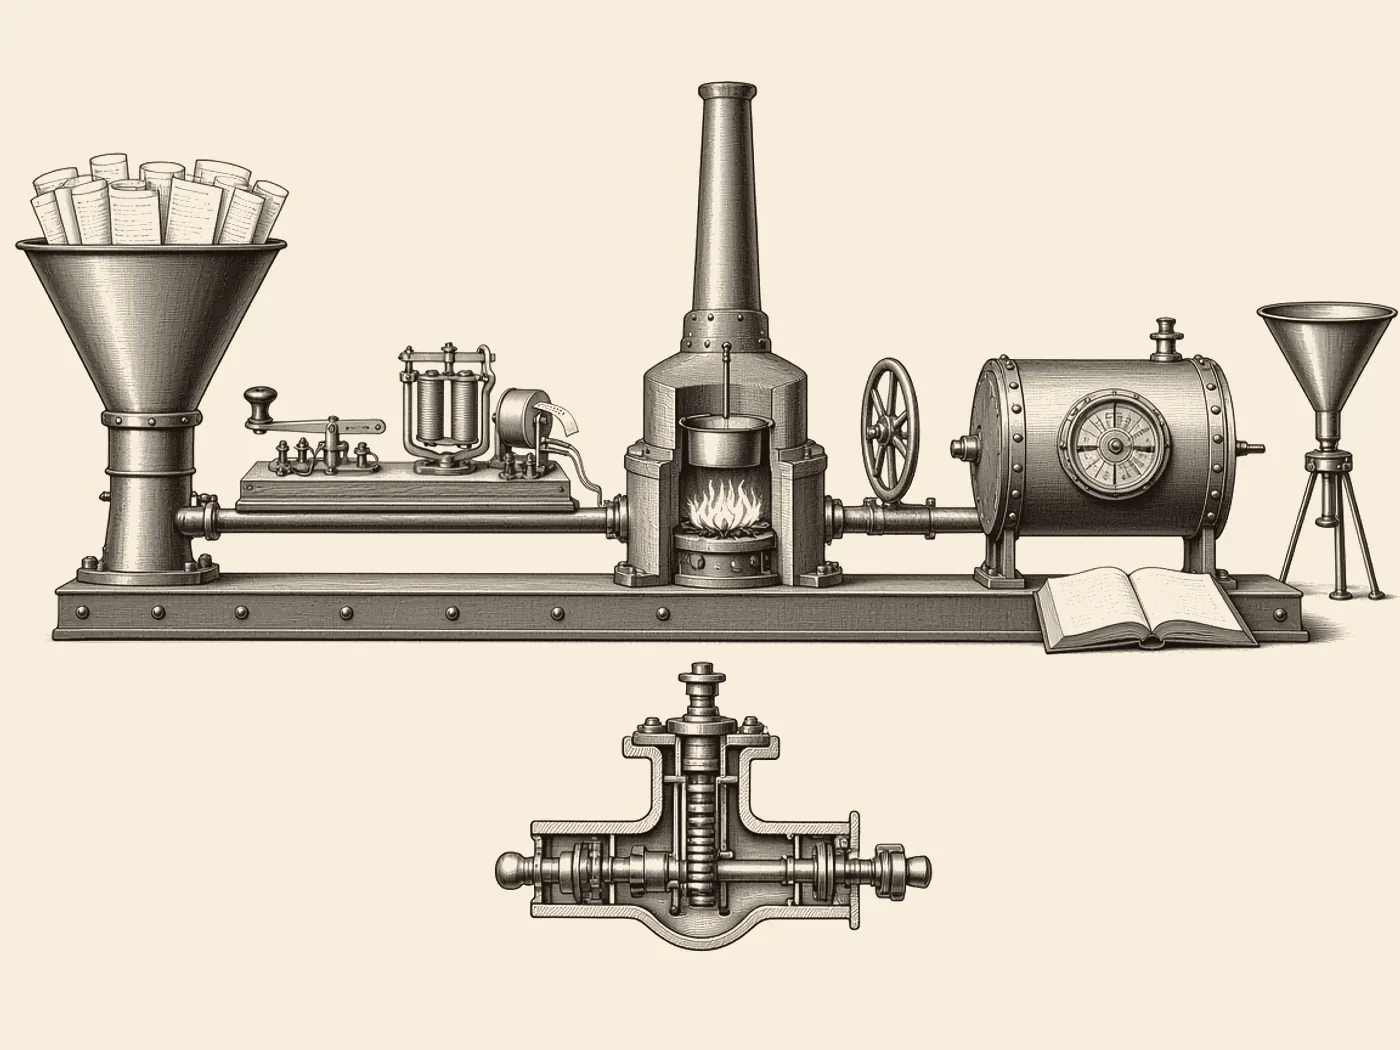
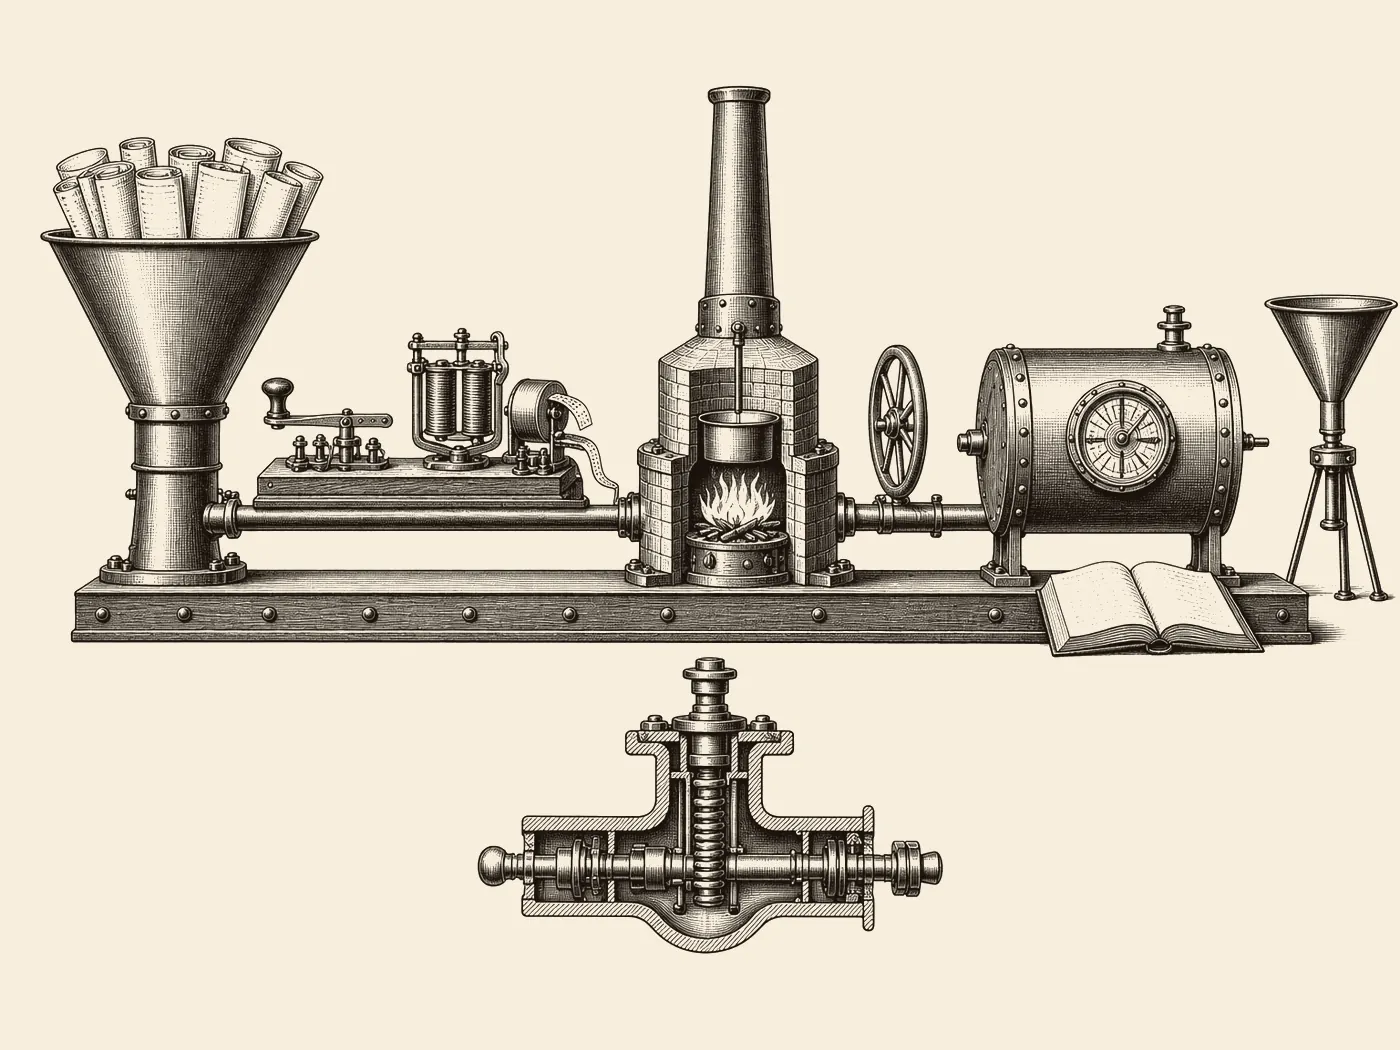
feat: park callout anchors on ink and close the last paper IOUs
Drop the still's orphaned 2a, park remaining project-patent leaders onto
raster, and add a luma neighborhood check so empty-bedplate callouts fail
CI. Regenerate Veridian Sheet 1 at sheet-2 density. Wrap the Philidor
impression with commentary, expand the colophon (set, witnesses, three
registers), and refresh the print edition.

Changed region(s): [[0.0, 0.061, 1.0, 0.9143]]

diff --git a/src/content/project-figures.ts b/src/content/project-figures.ts
@@ -41,9 +41,9 @@ export const CIRCUITMIND_LINE: ApparatusSpec = {
     { mark: "3b", x: 33.0, y: 88.0, fromX: 37.8, fromY: 82.2, glyph: "loupe" },
     { mark: "4", x: 81.0, y: 6.0, fromX: 81.5, fromY: 14.8, glyph: "pigeonhole" },
     { mark: "4a", x: 93.0, y: 50.0, fromX: 90.2, fromY: 40.1, glyph: "pigeonhole" },
-    { mark: "5", x: 95.0, y: 58.0, fromX: 71.6, fromY: 44.9, glyph: "seal" },
-    { mark: "6", x: 7.0, y: 74.0, fromX: 16.2, fromY: 57.2, glyph: "bedplate" },
-    { mark: "6a", x: 53.0, y: 80.0, fromX: 53.9, fromY: 57.5, glyph: "bedplate" },
+    { mark: "5", x: 95.0, y: 58.0, fromX: 71.6, fromY: 43.9, glyph: "seal" },
+    { mark: "6", x: 7.0, y: 74.0, fromX: 16.2, fromY: 56.1, glyph: "bedplate" },
+    { mark: "6a", x: 53.0, y: 80.0, fromX: 53.8, fromY: 56.5, glyph: "bedplate" },
   ],
   figLabels: [
     { n: 1, x: 3, y: 64 },
@@ -77,7 +77,7 @@ export const MIRRORFI_VAULT: ApparatusSpec = {
   ],
   numerals: [
     { mark: "1", x: 27.0, y: 8.0, fromX: 22.1, fromY: 13.5, glyph: "hopper" },
-    { mark: "2", x: 3.0, y: 42.0, fromX: 21.4, fromY: 40.1, glyph: "funnel" },
+    { mark: "2", x: 3.0, y: 42.0, fromX: 22.4, fromY: 38.7, glyph: "funnel" },
     { mark: "3", x: 43.0, y: 8.0, fromX: 47.8, fromY: 37.0, glyph: "vault" },
     { mark: "3a", x: 23.0, y: 52.0, fromX: 40.6, fromY: 52.0, glyph: "vault" },
     { mark: "3b", x: 49.0, y: 70.0, fromX: 49.8, fromY: 55.5, glyph: "vault" },
@@ -121,7 +121,7 @@ export const RISK_ENGINE: ApparatusSpec = {
   numerals: [
     { mark: "1", x: 15.0, y: 8.0, fromX: 16.0, fromY: 17.7, glyph: "hopper" },
     { mark: "2", x: 37.0, y: 8.0, fromX: 41.5, fromY: 20.6, glyph: "millwheel" },
-    { mark: "2a", x: 55.0, y: 8.0, fromX: 56.0, fromY: 21.6, glyph: "millwheel" },
+    { mark: "2a", x: 55.0, y: 8.0, fromX: 56.4, fromY: 20.6, glyph: "millwheel" },
     { mark: "2b", x: 41.0, y: 92.0, fromX: 46.0, fromY: 88.7, glyph: "millwheel" },
     { mark: "3", x: 77.0, y: 8.0, fromX: 77.0, fromY: 23.0, glyph: "seal" },
     { mark: "4", x: 7.0, y: 68.0, fromX: 21.5, fromY: 62.2, glyph: "loupe" },
@@ -203,15 +203,15 @@ export const VERIDIAN_PLANT: ApparatusSpec = {
     { n: 8, glyph: "gauge", label: "GAUGE", mapsTo: "99.9% uptime", confidence: "confirmed" },
   ],
   numerals: [
-    { mark: "1", x: 15.0, y: 8.0, fromX: 16.0, fromY: 17.7, glyph: "hopper" },
-    { mark: "2", x: 29.0, y: 8.0, fromX: 30.0, fromY: 27.4, glyph: "telegraph" },
-    { mark: "3", x: 47.0, y: 8.0, fromX: 49.2, fromY: 25.8, glyph: "crucible" },
-    { mark: "4", x: 65.0, y: 8.0, fromX: 66.0, fromY: 29.3, glyph: "valve" },
+    { mark: "1", x: 15.0, y: 8.0, fromX: 16.0, fromY: 22.0, glyph: "hopper" },
+    { mark: "2", x: 29.0, y: 8.0, fromX: 36.0, fromY: 32.0, glyph: "telegraph" },
+    { mark: "3", x: 47.0, y: 8.0, fromX: 48.0, fromY: 38.0, glyph: "crucible" },
+    { mark: "4", x: 65.0, y: 8.0, fromX: 62.7, fromY: 34.5, glyph: "valve" },
     { mark: "4a", x: 55.0, y: 92.0, fromX: 52.2, fromY: 88.7, glyph: "valve" },
     { mark: "5", x: 5.0, y: 50.0, fromX: 19.5, fromY: 53.9, glyph: "bedplate" },
     { mark: "6", x: 93.0, y: 64.0, fromX: 73.3, fromY: 52.8, glyph: "ledger" },
     { mark: "7", x: 97.0, y: 22.0, fromX: 92.2, fromY: 27.8, glyph: "funnel" },
-    { mark: "8", x: 93.0, y: 16.0, fromX: 80.4, fromY: 31.5, glyph: "gauge" },
+    { mark: "8", x: 93.0, y: 16.0, fromX: 78.0, fromY: 34.0, glyph: "gauge" },
   ],
   figLabels: [
     { n: 1, x: 3, y: 64 },
@@ -249,11 +249,10 @@ export const VERIDIAN_STILL: ApparatusSpec = {
     { mark: "1", x: 3.0, y: 18.0, fromX: 22.0, fromY: 38.0, glyph: "crucible" },
     { mark: "1a", x: 3.0, y: 32.0, fromX: 24.0, fromY: 44.0, glyph: "crucible" },
     { mark: "2", x: 3.0, y: 70.0, fromX: 20.0, fromY: 72.0, glyph: "boiler" },
-    { mark: "2a", x: 22.0, y: 92.0, fromX: 24.0, fromY: 80.0, glyph: "boiler" },
     { mark: "3", x: 48.0, y: 6.0, fromX: 50.0, fromY: 16.0, glyph: "tube" },
     { mark: "3a", x: 61.0, y: 6.0, fromX: 52.0, fromY: 22.0, glyph: "tube" },
     { mark: "4", x: 88.0, y: 8.0, fromX: 76.0, fromY: 36.0, glyph: "tube" },
-    { mark: "4a", x: 93.0, y: 36.0, fromX: 80.0, fromY: 48.0, glyph: "tube" },
+    { mark: "4a", x: 93.0, y: 36.0, fromX: 78.7, fromY: 46.8, glyph: "tube" },
     { mark: "5", x: 96.0, y: 70.0, fromX: 84.0, fromY: 66.0, glyph: "capsule" },
     { mark: "6", x: 96.0, y: 58.0, fromX: 88.0, fromY: 62.0, glyph: "gauge" },
     { mark: "7", x: 36.0, y: 6.0, fromX: 52.0, fromY: 26.0, glyph: "gaugepanel" },
@@ -291,12 +290,12 @@ export const VERIDIAN_EXCHANGE: ApparatusSpec = {
     { n: 7, glyph: "gauge", label: "GAUGE", mapsTo: "+45% retrieval vs vector-only", confidence: "confirmed" },
   ],
   numerals: [
-    { mark: "1", x: 3.0, y: 58.0, fromX: 10.0, fromY: 62.0, glyph: "hopper" },
+    { mark: "1", x: 3.0, y: 58.0, fromX: 14.1, fromY: 65.6, glyph: "hopper" },
     { mark: "2", x: 3.0, y: 72.0, fromX: 16.0, fromY: 64.0, glyph: "seal" },
     { mark: "3", x: 48.0, y: 6.0, fromX: 50.0, fromY: 18.0, glyph: "pigeonhole" },
     { mark: "3a", x: 22.0, y: 6.0, fromX: 28.0, fromY: 22.0, glyph: "pigeonhole" },
     { mark: "3b", x: 72.0, y: 6.0, fromX: 70.0, fromY: 20.0, glyph: "pigeonhole" },
-    { mark: "4", x: 3.0, y: 18.0, fromX: 18.0, fromY: 28.0, glyph: "capsule" },
+    { mark: "4", x: 3.0, y: 18.0, fromX: 17.4, fromY: 29.1, glyph: "capsule" },
     { mark: "4a", x: 88.0, y: 18.0, fromX: 78.0, fromY: 30.0, glyph: "capsule" },
     { mark: "5", x: 48.0, y: 92.0, fromX: 50.0, fromY: 70.0, glyph: "relay" },
     { mark: "6", x: 93.0, y: 58.0, fromX: 88.0, fromY: 62.0, glyph: "ledger" },

diff --git a/e2e/opening.spec.ts b/e2e/opening.spec.ts
@@ -88,9 +88,22 @@ test.describe("Opening Preparation", () => {
     await expect(page.locator("#chapter-re1 [data-testid='inline-diagram']")).toHaveCount(0);
     await expect(page.getByTestId("artists-impression")).toHaveCount(1);
     await expect(page.locator("#chapter-nf3 [data-testid='artists-impression']")).toBeVisible();
+    await expect(page.locator("#chapter-nf3 [data-testid='artists-impression']")).toHaveAttribute(
+      "data-placement",
+      "wrap",
+    );
     await expect(page.getByTestId("artists-impression")).toContainText(
       "The engineer as he might have been found — MathCAD open, licenses already paid. An artist's impression.",
     );
+    await expect(page.locator("#chapter-nf3 .chapter-copy")).toContainText(
+      /MathCAD glowing on a CRT/,
+    );
+    const impressionWrap = page.locator("#chapter-nf3 .chapter-copy").filter({
+      has: page.getByTestId("artists-impression"),
+    });
+    const impressionBox = (await impressionWrap.getByTestId("artists-impression").boundingBox())!;
+    const wrapCopyBox = (await impressionWrap.locator("p").last().boundingBox())!;
+    expect(wrapCopyBox.y + wrapCopyBox.height).toBeGreaterThanOrEqual(impressionBox.y + impressionBox.height - 28);
     await expect
       .poll(async () =>
         page.locator("#chapter-nf3 .artists-impression-frame").evaluate((el) => getComputedStyle(el).borderStyle),
@@ -118,6 +131,11 @@ test.describe("Opening Preparation", () => {
     await expect(page.locator("#chapter-nc6 [data-testid='news-clipping']")).toContainText(
       "SETEL RECRUITS NEW HANDS ON THE PAYMENT ENGINE",
     );
+    const setelPhoto = page.locator("#chapter-nc6 [data-testid='news-clipping'] img").first();
+    await expect(setelPhoto).toBeVisible();
+    const setelBox = (await setelPhoto.boundingBox())!;
+    expect(setelBox.width).toBeGreaterThan(160);
+    expect(setelBox.height).toBeGreaterThan(100);
     await expect(page.locator("#chapter-bc4 [data-testid='news-clipping']")).toContainText(
       "WESTERN DIGITAL NEWEST ADDITION FOR THE LAB FLOOR",
     );
@@ -767,9 +785,13 @@ test.describe("Opening Preparation", () => {
     await expect(page.getByTestId("situations-wanted").first()).toContainText(/Replies within two days/i);
     await expect(page.getByTestId("colophon")).toBeVisible();
     await expect(page.getByTestId("colophon")).toContainText("8902");
+    await expect(page.getByTestId("colophon")).toContainText("How this paper was set");
+    await expect(page.getByTestId("colophon")).toContainText("Three registers");
     await expect(page.getByTestId("colophon")).toContainText(
       "Photographs real and composed; impressions imagined; the subject is real throughout.",
     );
+    await expect(page.getByTestId("colophon")).toContainText("The witnesses");
+    await expect(page.getByTestId("colophon")).toContainText("Vitest signs the parts list");
     await expect(page.getByTestId("inventor-plate")).toBeVisible();
     await page.getByTestId("weather-cycle").click();
     await expect(page.getByTestId("weather-cycle")).toContainText(/Fog on the e-file|High pressure/);

diff --git a/src/lib/opening/callout-ink.test.ts b/src/lib/opening/callout-ink.test.ts
@@ -1,0 +1,70 @@
+import { spawnSync } from "node:child_process";
+import { existsSync } from "node:fs";
+import { join } from "node:path";
+import { describe, expect, it } from "vitest";
+import { PROJECT_FIGURES } from "@/content/project-figures";
+
+const publicDir = join(process.cwd(), "public");
+const script = join(process.cwd(), "scripts/check-callout-ink.py");
+
+describe("project-patent callouts", () => {
+  it("gives every legend entry exactly one primary numeral", () => {
+    for (const [id, spec] of Object.entries(PROJECT_FIGURES)) {
+      for (const part of spec.parts) {
+        const primaries = spec.numerals.filter((n) => n.mark === String(part.n));
+        expect(primaries, `${id} legend ${part.n} (${part.label})`).toHaveLength(1);
+      }
+    }
+  });
+
+  it("parks every numeral's anchor on non-background raster", () => {
+    expect(existsSync(script)).toBe(true);
+    const payload = Object.values(PROJECT_FIGURES).flatMap((spec) =>
+      spec.numerals.map((n) => ({
+        fig: spec.fig,
+        src: join(publicDir, spec.engraving.src.replace(/^\//, "")),
+        mark: n.mark,
+        fromX: n.fromX,
+        fromY: n.fromY,
+      })),
+    );
+    const result = spawnSync("python3", [script], {
+      input: JSON.stringify(payload),
+      encoding: "utf8",
+    });
+    expect(result.status, result.stderr || result.stdout).toBe(0);
+  });
+
+  it("drops the still's orphaned 2a", () => {
+    const marks = PROJECT_FIGURES["slm-distillation-engine"].numerals.map((n) => n.mark);
+    expect(marks).not.toContain("2a");
+    expect(marks.filter((m) => m === "2")).toHaveLength(1);
+  });
+
+  it("keeps the inventor in the Setel pump plate at print-inset size", () => {
+    const result = spawnSync(
+      "python3",
+      [
+        "-c",
+        [
+          "from PIL import Image",
+          "im = Image.open('public/plates/clip-setel.jpg').convert('RGB')",
+          "im.thumbnail((200, 200))",
+          "w, h = im.size",
+          "dark = n = 0",
+          "for y in range(h):",
+          "  for x in range(int(w * 0.35), w):",
+          "    r, g, b = im.getpixel((x, y))[:3]",
+          "    L = 0.299*r + 0.587*g + 0.114*b",
+          "    n += 1",
+          "    dark += L < 90",
+          "ratio = dark / n",
+          "print(ratio)",
+          "assert ratio > 0.08, ratio",
+        ].join("\n"),
+      ],
+      { encoding: "utf8", cwd: process.cwd() },
+    );
+    expect(result.status, result.stderr || result.stdout).toBe(0);
+  });
+});

diff --git a/src/content/opening.ts b/src/content/opening.ts
@@ -49,7 +49,13 @@ export const BROADSHEET = {
   classifiedSticky: "Situations Wanted — apply within",
   colophonKicker: "How this paper was set",
   colophon:
-    "Type: Libre Baskerville, Lora, IBM Plex Mono. Ink #1a120c on cream #f6eedc. The tree is the repertoire; the scoresheet is the CV; the glass case is mailbox-64 alpha-beta with PeSTO tables. The 2200 on the masthead of that case is club strength, not a published Elo. Photographs real and composed; impressions imagined; the subject is real throughout. No template. Chess is content, never a lock.",
+    "Type: Libre Baskerville, Lora, IBM Plex Mono. Ink #1a120c on cream #f6eedc. Radius none. The tree is the repertoire; the scoresheet is the CV; the glass case is mailbox-64 alpha-beta with PeSTO tables. The 2200 on the masthead of that case is club strength, not a published Elo. No template. Chess is content, never a lock.",
+  colophonHonestyKicker: "Three registers",
+  colophonHonesty:
+    "Photographs real and composed; impressions imagined; the subject is real throughout.",
+  colophonWitnessKicker: "The witnesses",
+  colophonWitnesses:
+    "Vitest signs the parts list and the node counts. Playwright walks the paper the way a reader would — deep links, the board, the lightbox. The table below is perft: the move generator's receipt against the published start-position series. If those numbers slip, the engine is lying.",
   perftKicker: "Perft — the generator's receipt",
   correctionKicker: "Correction",
   correctionHed: "The page you requested was a misprint.",
@@ -246,7 +252,7 @@ export const OPENING_NODES: OpeningNode[] = [
     title: "The Philidor, Declined",
     fact: "After Petronas the MATLAB world was still there — MathCAD, department code, a quieter engineering path with licenses already paid.",
     commentary:
-      "2…d6 keeps the position closed. I developed the knight instead. The dashed line is honest: I could have stayed. I did not.",
+      "2…d6 keeps the position closed. I developed the knight instead. The dashed line is honest: I could have stayed in the MATLAB world, licenses already paid, MathCAD glowing on a CRT. I did not.",
     eval: -0.55,
     evalText: "?!",
     artifacts: [],

diff --git a/src/lib/print-edition.ts b/src/lib/print-edition.ts
@@ -157,7 +157,11 @@ export function buildPrintEditionPdf(): Uint8Array {
   y -= 2;
   y = heading(y, "Selected work");
   for (const p of d.projects) {
-    for (const line of wrap(`${p.name} - ${p.subtitle}. ${p.impact}.`, 58)) {
+    const extra =
+      p.slug === "veridian"
+        ? " 3-sheet filing: economized plant, retrieval of regulations, distillation of reasoning."
+        : "";
+    for (const line of wrap(`${p.name} - ${p.subtitle}. ${p.impact}.${extra}`, 58)) {
       txt("F1", 8, M, y, line);
       y -= 11;
     }
@@ -180,7 +184,14 @@ export function buildPrintEditionPdf(): Uint8Array {
     }
   }
 
-  txt("F3", 8, M, 36, "C50  |  Italian Game  |  a game played since I was a teenager.");
+  txt("F3", 7, M, 36, "C50  |  Italian Game  |  a game played since I was a teenager.");
+  txt(
+    "F3",
+    7,
+    M,
+    24,
+    "Photographs real and composed; impressions imagined; the subject is real throughout.",
+  );
   rule(48, 0.5);
 
   const content = ops.join("\n");

diff --git a/src/components/opening/Colophon.tsx b/src/components/opening/Colophon.tsx
@@ -23,6 +23,16 @@ export function Colophon() {
         <figcaption>The inventor, on the stair — file photo.</figcaption>
       </figure>
       <p className="mt-2 font-lora text-[13px] leading-relaxed text-ink">{BROADSHEET.colophon}</p>
+      <p className="mt-3 font-mono text-[10px] uppercase tracking-[0.18em] text-faded">
+        {BROADSHEET.colophonHonestyKicker}
+      </p>
+      <p className="mt-1 font-display text-[13px] italic leading-snug text-ink">
+        {BROADSHEET.colophonHonesty}
+      </p>
+      <p className="mt-3 font-mono text-[10px] uppercase tracking-[0.18em] text-faded">
+        {BROADSHEET.colophonWitnessKicker}
+      </p>
+      <p className="mt-1 font-lora text-[13px] leading-relaxed text-ink">{BROADSHEET.colophonWitnesses}</p>
       <p className="mt-3 clear-both font-mono text-[10px] uppercase tracking-[0.18em] text-faded">
         {BROADSHEET.perftKicker}
       </p>

diff --git a/src/components/opening/NotationView.tsx b/src/components/opening/NotationView.tsx
@@ -159,6 +159,11 @@ function Chapter({
                     onPreview={onPreview}
                   />
                 </p>
+                {head?.impression && head.commentary ? (
+                  <p className="mt-3 max-w-prose font-lora text-[13px] leading-relaxed italic text-ink">
+                    {head.commentary}
+                  </p>
+                ) : null}
                 {head?.plate ? (
                   <HalftonePlate
                     src={head.plate.src}

diff --git a/src/lib/opening/tree.test.ts b/src/lib/opening/tree.test.ts
@@ -129,6 +129,7 @@ describe("art taxonomy", () => {
   it("files an artist's impression on the declined startup, not a retrospect hed", () => {
     expect(getNode("philidor").impression?.src).toBe("/plates/impression-philidor.jpg");
     expect(getNode("philidor").impression?.caption).toMatch(/artist's impression/i);
+    expect(getNode("philidor").commentary).toMatch(/MathCAD glowing on a CRT/);
   });
 
   it("files news-clippings on education and the three employer roles", () => {

diff --git a/src/lib/print-edition.test.ts b/src/lib/print-edition.test.ts
@@ -16,6 +16,9 @@ describe("print edition", () => {
     expect(text).toContain("/Count 1");
     expect(text).toContain("5. d4 - the Italian break");
     expect(text).toContain("a game played since I was a teenager");
+    expect(text).toContain("Photographs real and composed");
+    expect(text).toContain("3-sheet filing");
+    expect(text).toContain("economized plant");
     expect(text).toMatch(/\(N\)|\(n\)|\(K\)|\(k\)/);
     expect(text).not.toContain("/Count 2");
   });

diff --git a/src/components/opening/ArtistsImpression.tsx b/src/components/opening/ArtistsImpression.tsx
@@ -10,7 +10,7 @@ export function ArtistsImpression({
   alt: string;
 }) {
   return (
-    <figure className="artists-impression plate-inset" data-testid="artists-impression" data-plate={src}>
+    <figure className="artists-impression plate-inset" data-testid="artists-impression" data-plate={src} data-placement="wrap">
       <div className="artists-impression-frame">
         <Image
           src={src}

diff --git a/scripts/check-callout-ink.py b/scripts/check-callout-ink.py
@@ -1,0 +1,46 @@
+#!/usr/bin/env python3
+"""Fail if a patent numeral's anchor sits on empty paper.
+
+Stdin: JSON array of {fig, src, mark, fromX, fromY}. Coords are percent 0–100.
+An anchor passes when the darkest luma in a 6px neighborhood is ≤ 170.
+"""
+import json
+import sys
+from PIL import Image
+
+RADIUS = 6
+THRESH = 170
+
+
+def luma(p):
+    r, g, b = p[:3]
+    return 0.299 * r + 0.587 * g + 0.114 * b
+
+
+def darkest(im, fx, fy):
+    w, h = im.size
+    x = int(fx / 100.0 * (w - 1))
+    y = int(fy / 100.0 * (h - 1))
+    m = 255.0
+    for yy in range(max(0, y - RADIUS), min(h, y + RADIUS + 1)):
+        for xx in range(max(0, x - RADIUS), min(w, x + RADIUS + 1)):
+            m = min(m, luma(im.getpixel((xx, yy))))
+    return m
+
+
+fails = []
+cache = {}
+for row in json.load(sys.stdin):
+    src = row["src"]
+    im = cache.get(src)
+    if im is None:
+        im = Image.open(src).convert("RGB")
+        cache[src] = im
+    L = darkest(im, row["fromX"], row["fromY"])
+    if L > THRESH:
+        fails.append(
+            f"FIG.{row['fig']} {row['mark']} luma={L:.0f} at ({row['fromX']},{row['fromY']})"
+        )
+if fails:
+    print("\n".join(fails), file=sys.stderr)
+    sys.exit(1)
